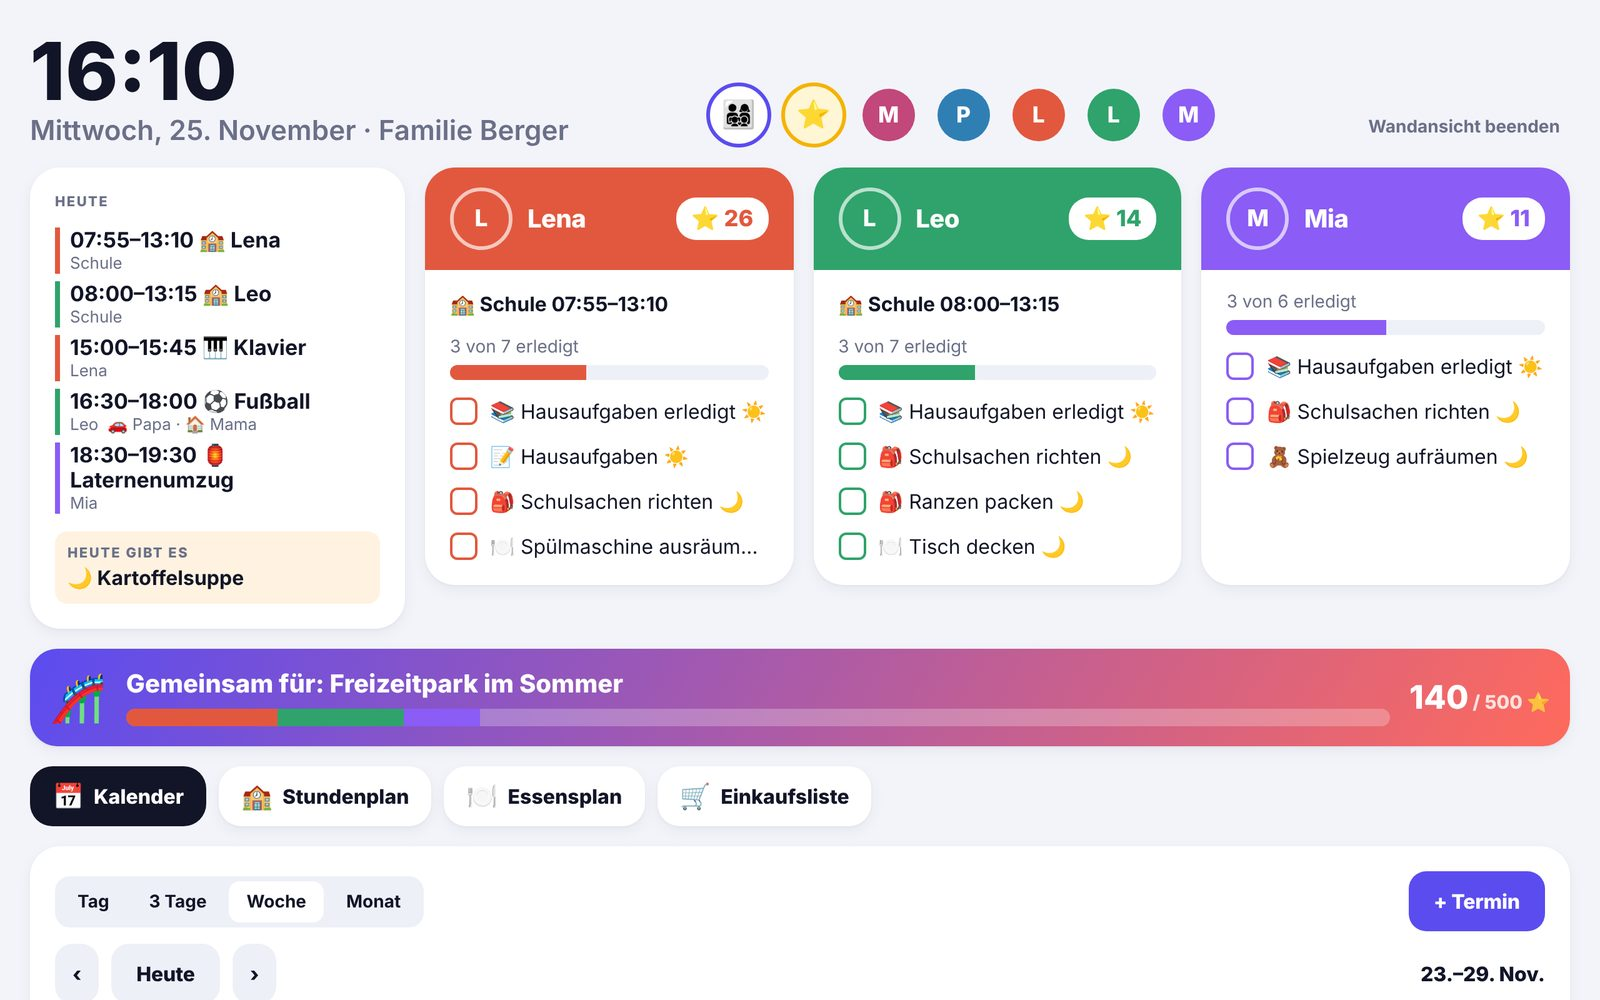
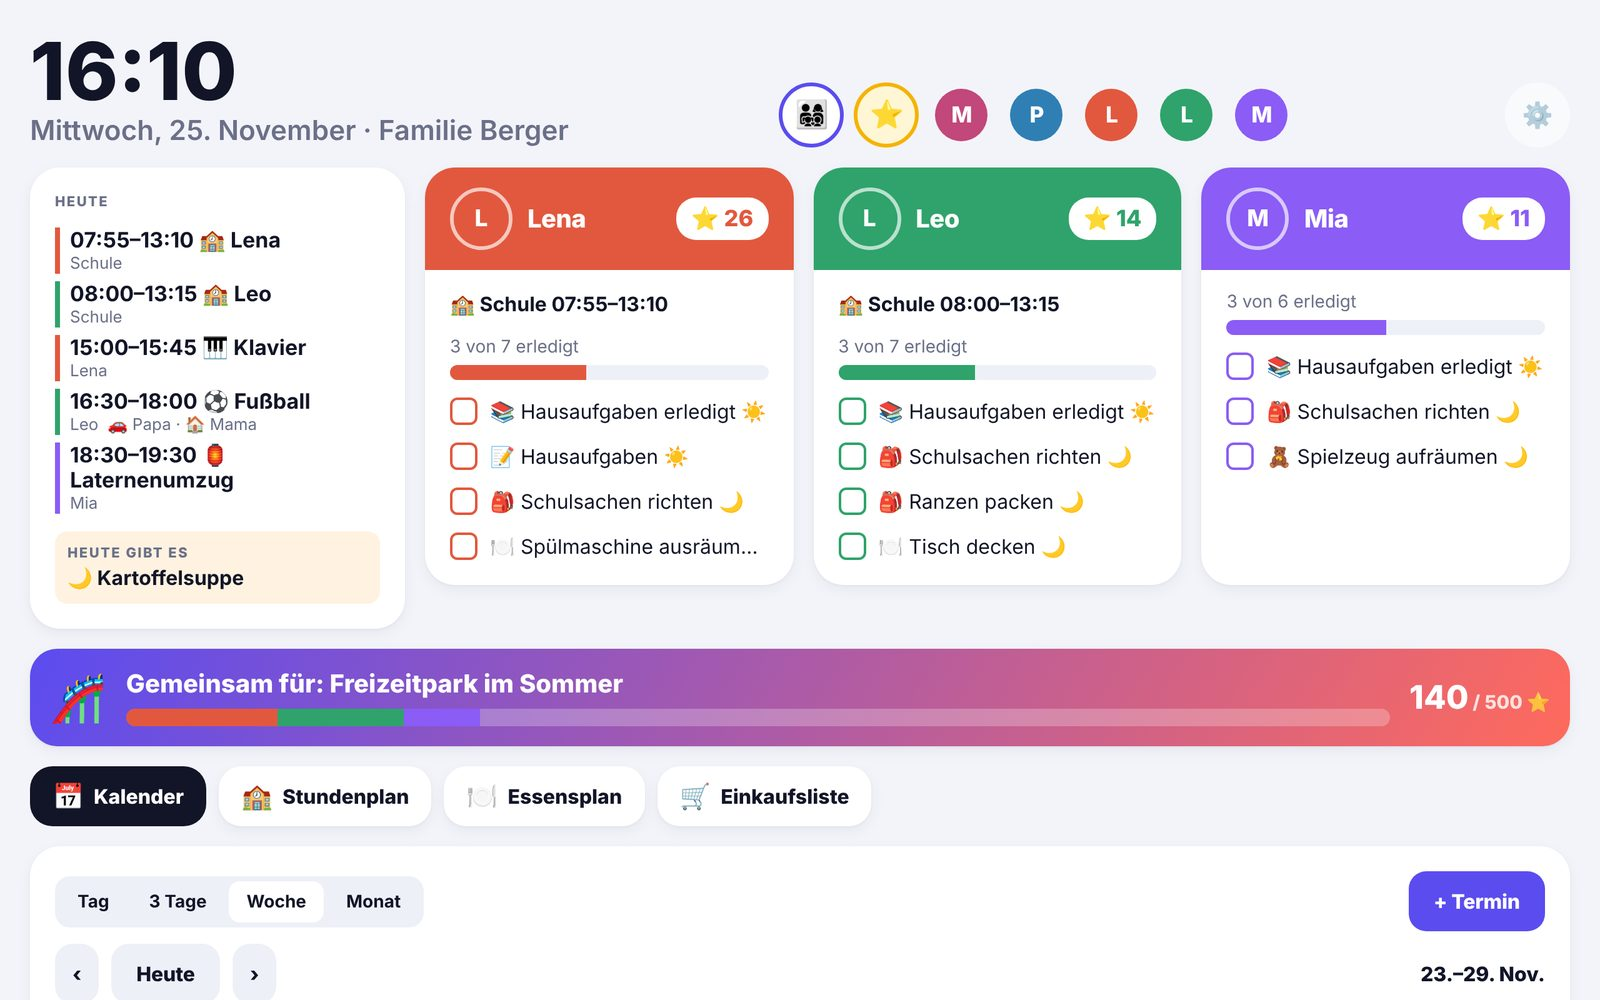
Wandansicht: dezenter Knopf zum Beenden statt Textlink
Claude-Session: https://claude.ai/code/session_013Ys84cWzQi7zTY2ivGgEcg

Changed region(s): [[0.4375, 0.062, 0.8125, 0.155], [0.8438, 0.093, 0.9688, 0.155]]

diff --git a/src/screens/Board.tsx b/src/screens/Board.tsx
@@ -102,8 +102,9 @@ export function Board({ onExit }: { onExit: () => void }) {
           })}
         </View>
         {!ask ? (
-          <Pressable accessibilityRole="button" onPress={() => setAsk(true)} style={{ padding: 8 }}>
-            <Text style={{ color: C.muted, fontWeight: '700' }}>Wandansicht beenden</Text>
+          <Pressable accessibilityRole="button" accessibilityLabel="Wandansicht beenden (Eltern-PIN)" onPress={() => setAsk(true)}
+            style={{ width: 52, height: 52, borderRadius: 26, backgroundColor: C.surface, alignItems: 'center', justifyContent: 'center', opacity: 0.55 }}>
+            <Text style={{ fontSize: 20 }}>⚙</Text>
           </Pressable>
         ) : (
           <View style={[s.row, { flexWrap: 'nowrap' }]}>
